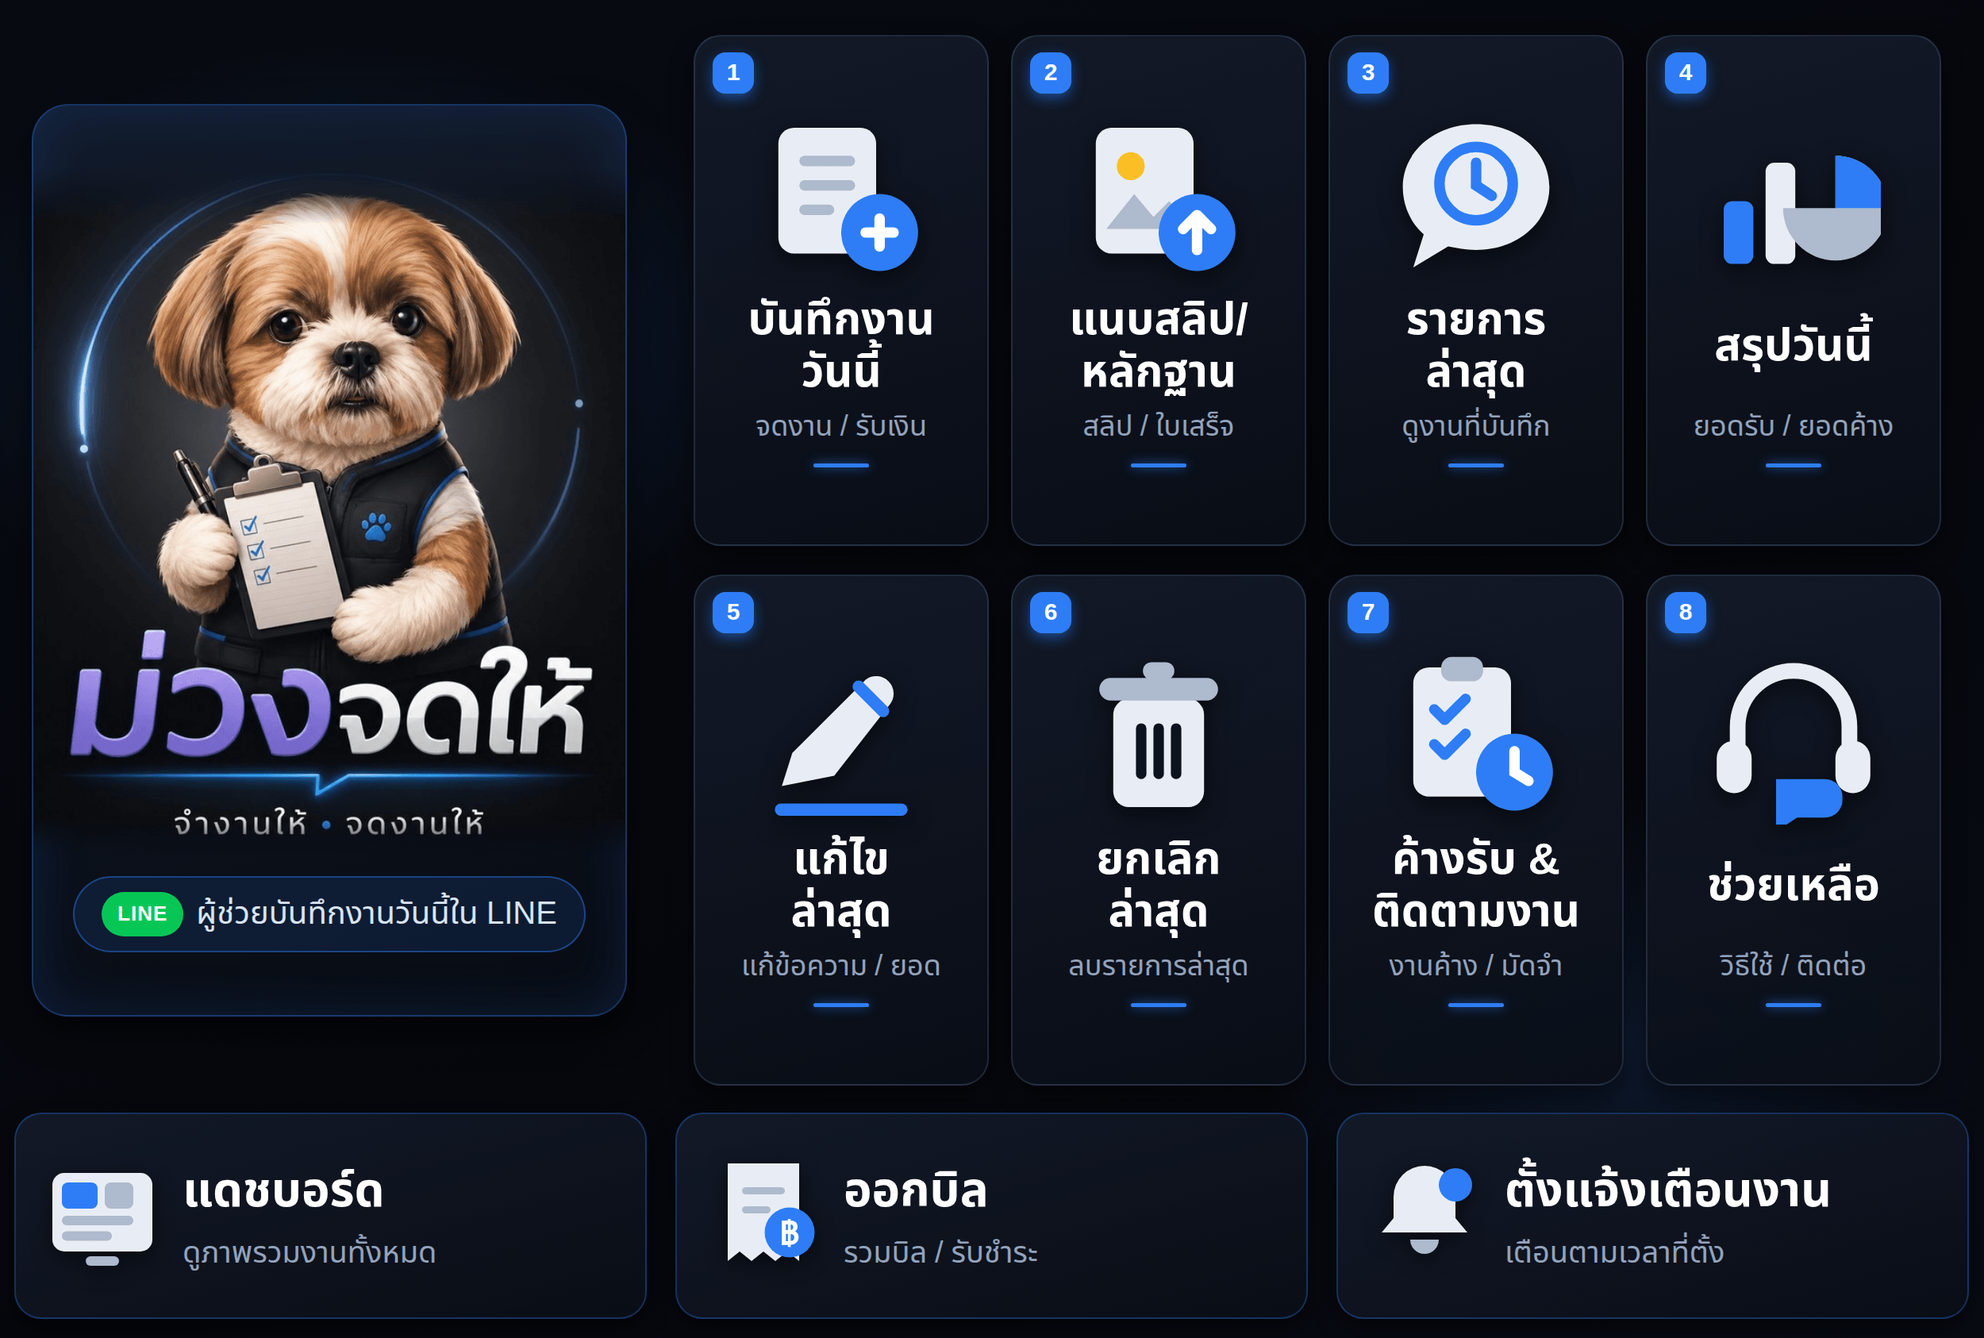
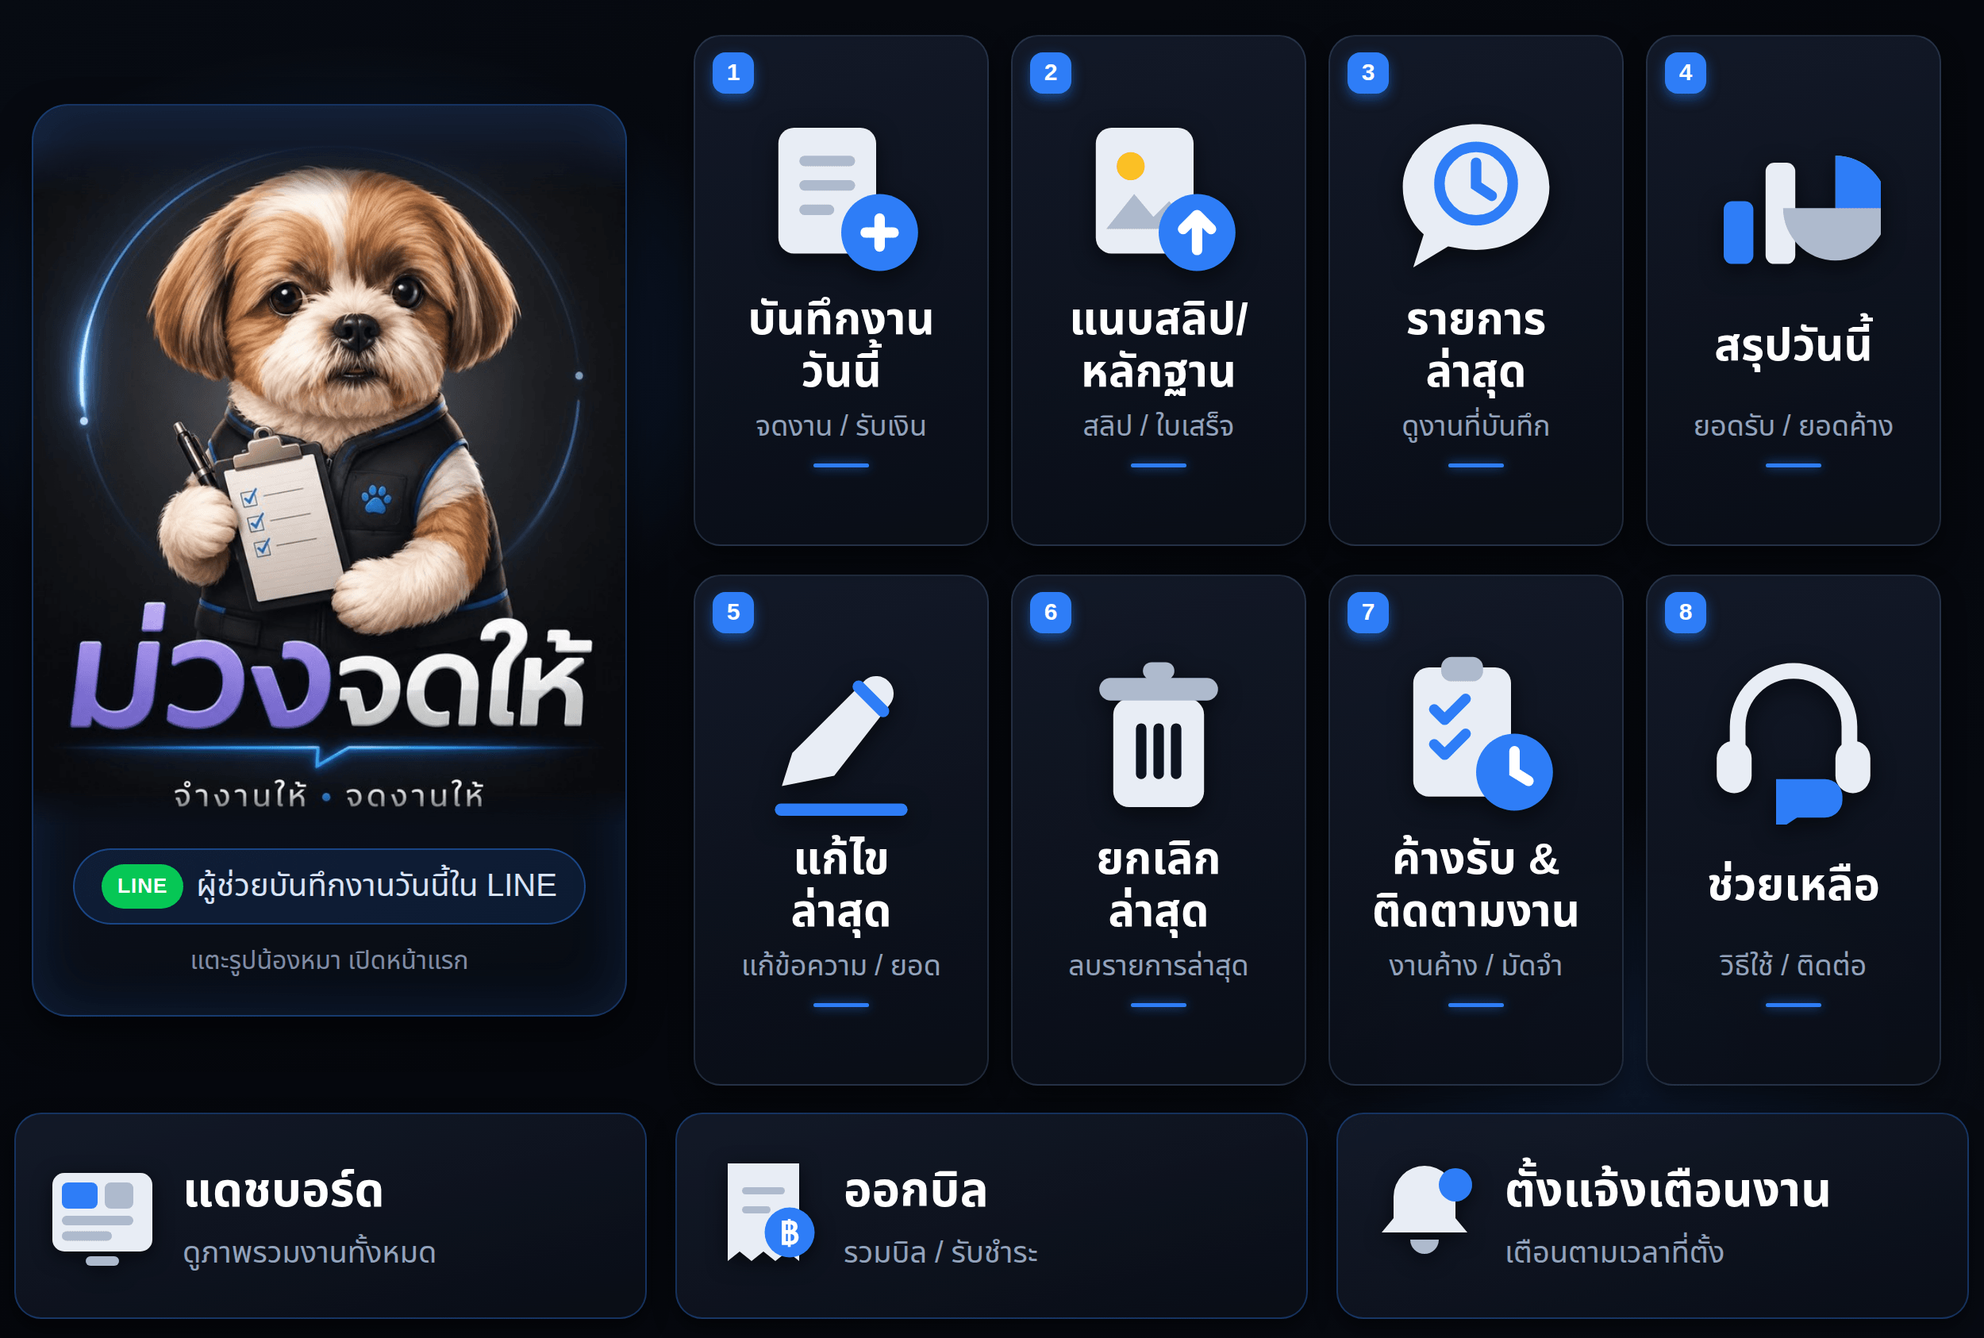
Make the mascot panel a button, opening a home card (#38)
It is the largest thing on the Rich Menu and the first thing anyone
presses, and it did nothing — 860 x 1386 of dead pixels down the left.
It now opens a home card: a greeting by name, the day in three numbers,
and the four things people open the bot to do. Deliberately shorter than
the summary card, which goes on to break the day down by category.

Nothing about a picture says it can be pressed, so the panel says so
under the badge.

The numbers are a nicety and the buttons are the point, so a failed
lookup still sends the card with zeroes rather than an error. The
dashboard button and the mascot strip each appear only when they resolve
to something.

Claude-Session: https://claude.ai/code/session_01HjQRr7qyQeJARpB6Ss4x4u

Changed region(s): [[0.0312, 0.1234, 0.312, 0.7402], [0.2808, 0.3084, 0.312, 0.3701]]

diff --git a/src/flex/homeFlex.js b/src/flex/homeFlex.js
@@ -1,0 +1,98 @@
+import { formatBaht } from '../utils/currency.js';
+import { formatThaiDate } from '../utils/dates.js';
+import { COLORS } from './theme.js';
+import { brandAssetUrl } from '../utils/brand.js';
+import { liffUrl } from '../utils/liff.js';
+
+// The card behind the mascot on the Rich Menu: a greeting, the day in three
+// numbers, and the four things people actually open the bot to do. It is the
+// "front page" — deliberately shorter than the summary card, which goes on to
+// break the day down by category.
+
+function stat(label, value, color) {
+  return {
+    type: 'box',
+    layout: 'vertical',
+    flex: 1,
+    spacing: 'xs',
+    contents: [
+      { type: 'text', text: label, size: 'sm', color: COLORS.grey },
+      { type: 'text', text: value, size: 'lg', weight: 'bold', color, wrap: true },
+    ],
+  };
+}
+
+function button(label, data, opts = {}) {
+  return {
+    type: 'button',
+    style: opts.primary ? 'primary' : 'secondary',
+    height: 'md',
+    ...(opts.primary ? { color: COLORS.accent } : {}),
+    action: { type: 'postback', label, data, displayText: opts.displayText || label },
+  };
+}
+
+export function homeFlex(summary = {}, opts = {}) {
+  const name = String(opts.displayName || '').trim();
+  const dashUrl = opts.liffUrl !== undefined ? opts.liffUrl : liffUrl({ tab: 'today' });
+  const hero = opts.heroImageUrl !== undefined ? opts.heroImageUrl : brandAssetUrl('ui/card-hero.png');
+
+  const body = [
+    {
+      type: 'text',
+      text: name ? `สวัสดีค่ะ คุณ${name} 💜` : 'ม่วงจดพร้อมช่วยแล้วค่ะ 💜',
+      weight: 'bold',
+      size: 'xl',
+      color: COLORS.title,
+      wrap: true,
+    },
+    { type: 'text', text: formatThaiDate(summary.date), size: 'md', color: COLORS.grey },
+    {
+      type: 'box',
+      layout: 'horizontal',
+      backgroundColor: COLORS.tint,
+      cornerRadius: 'lg',
+      paddingAll: 'lg',
+      spacing: 'md',
+      margin: 'lg',
+      contents: [
+        stat('ยอดวันนี้', formatBaht(summary.total || 0), COLORS.accent),
+        stat('งาน', `${summary.jobCount || 0}`, COLORS.ink),
+        stat('ค้างรับ', formatBaht(summary.pending || 0), COLORS.red),
+      ],
+    },
+  ];
+
+  const footer = [
+    button('📝 บันทึกงานวันนี้', 'action=add_job', { primary: true }),
+    {
+      type: 'box',
+      layout: 'horizontal',
+      spacing: 'sm',
+      contents: [
+        button('📊 สรุปวันนี้', 'action=today_summary'),
+        button('💰 ค้างรับ', 'action=pending_payment'),
+      ],
+    },
+  ];
+
+  // The dashboard button only exists when there is somewhere for it to go.
+  if (dashUrl) {
+    footer.push({
+      type: 'button',
+      style: 'secondary',
+      height: 'md',
+      action: { type: 'uri', label: '📋 เปิดแดชบอร์ด', uri: dashUrl },
+    });
+  }
+
+  const bubble = {
+    type: 'bubble',
+    size: 'mega',
+    body: { type: 'box', layout: 'vertical', paddingAll: 'lg', contents: body },
+    footer: { type: 'box', layout: 'vertical', spacing: 'sm', paddingAll: 'lg', paddingTop: 'none', contents: footer },
+  };
+  if (hero) bubble.hero = { type: 'image', url: hero, size: 'full', aspectRatio: '20:8', aspectMode: 'cover' };
+
+  return { type: 'flex', altText: 'ม่วงจดพร้อมช่วยแล้วค่ะ', contents: bubble };
+}

diff --git a/tests/richMenu.test.js b/tests/richMenu.test.js
@@ -3,7 +3,7 @@ import assert from 'node:assert/strict';
 import { readFileSync } from 'node:fs';
 import { resolveMenuCommand } from '../src/utils/menuCommands.js';
 import { POSTBACK_ACTIONS } from '../src/utils/validation.js';
-import { buildAreas, LAYOUT, BUTTONS, STRIP } from '../scripts/create-rich-menu.js';
+import { buildAreas, LAYOUT, BUTTONS, STRIP, PANEL } from '../scripts/create-rich-menu.js';
 
 // The Rich Menu is artwork plus a list of tappable rectangles, kept in step by
 // hand. These guard the ways that pairing silently breaks.
@@ -12,8 +12,8 @@ const builder = readFileSync(new URL('../scripts/build-rich-menu.mjs', import.me
 const nOf = (key) => Number(new RegExp(`${key} = (\\d+)`).exec(builder)?.[1]);
 
 test('every button reaches a handler, by tap and by text', () => {
-  const all = [...BUTTONS, ...STRIP];
-  assert.equal(all.length, LAYOUT.cols * LAYOUT.rows + LAYOUT.stripCols);
+  const all = [...BUTTONS, ...STRIP, PANEL];
+  assert.equal(all.length, LAYOUT.cols * LAYOUT.rows + LAYOUT.stripCols + 1);
 
   for (const btn of all) {
     const action = /action=([a-z_]+)/.exec(btn.data)?.[1];
@@ -39,7 +39,7 @@ test('the artwork and the tap areas describe the same geometry', () => {
 
 test('the areas stay inside the image, never overlap, and are big enough to tap', () => {
   const areas = buildAreas();
-  assert.equal(areas.length, BUTTONS.length + STRIP.length);
+  assert.equal(areas.length, BUTTONS.length + STRIP.length + 1);
 
   for (const { bounds, action } of areas) {
     assert.ok(bounds.width >= 200 && bounds.height >= 200, `${action.displayText}: ${bounds.width}x${bounds.height} too small`);
@@ -63,7 +63,7 @@ test('the areas stay inside the image, never overlap, and are big enough to tap'
 test('the grid clears the brand panel and the strip reaches both edges', () => {
   const areas = buildAreas();
   const grid = areas.slice(0, BUTTONS.length);
-  const strip = areas.slice(BUTTONS.length);
+  const strip = areas.slice(BUTTONS.length, BUTTONS.length + STRIP.length);
 
   for (const a of grid) {
     assert.ok(a.bounds.x >= LAYOUT.marginLeft, `${a.action.displayText} sits on the brand panel`);
@@ -74,4 +74,18 @@ test('the grid clears the brand panel and the strip reaches both edges', () => {
   const last = strip[strip.length - 1].bounds;
   assert.equal(last.x + last.width, LAYOUT.width, 'the strip leaves a gap at the right edge');
   assert.ok(strip.every((a) => a.bounds.y === LAYOUT.height - LAYOUT.stripHeight));
+});
+
+test('the mascot panel is tappable and covers everything left of the grid', () => {
+  const panel = buildAreas().at(-1);
+  assert.equal(panel.action.data, PANEL.data);
+  assert.deepEqual(panel.bounds, {
+    x: 0,
+    y: 0,
+    width: LAYOUT.marginLeft,
+    height: LAYOUT.height - LAYOUT.stripHeight,
+  });
+  // It is the biggest target on the menu, so a gap here would be the most
+  // annoying kind: a press that lands on nothing.
+  assert.ok(panel.bounds.width * panel.bounds.height > 1_000_000);
 });

diff --git a/scripts/create-rich-menu.js b/scripts/create-rich-menu.js
@@ -9,7 +9,7 @@ const { MessagingApiClient, MessagingApiBlobClient } = linebot.messagingApi;
 // ------------------------------------------------------------
 // Rich Menu layout config — must match assets/rich-menu.png, which is drawn
 // by scripts/build-rich-menu.mjs. The image is 2500 x 1686:
-//   - a brand panel down the left (decoration, not tappable)
+//   - a brand panel down the left — tappable, opens the home card
 //   - 8 cards in 4 columns x 2 rows to its right
 //   - a strip of 3 cards across the bottom, full width
 // ------------------------------------------------------------
@@ -18,7 +18,7 @@ const LAYOUT = {
   height: 1686,
   cols: 4,
   rows: 2,
-  marginLeft: 860, // brand panel to the left of the grid (not tappable)
+  marginLeft: 860, // brand panel to the left of the grid — tappable, see PANEL
   marginRight: 40, // margin after the last column, matching the panel's on the left
   marginTop: 26, // margin above the first row
   stripHeight: 300, // bottom strip — tappable, see STRIP below
@@ -37,6 +37,11 @@ const BUTTONS = [
   { label: 'ค้างรับ & ติดตามงาน', data: 'action=pending_payment' },
   { label: 'ช่วยเหลือ', data: 'action=help' },
 ];
+
+// The mascot panel down the left. It looked like decoration, so it was not
+// tappable — but it is the biggest thing on the menu and the first thing
+// anyone presses.
+const PANEL = { label: 'ม่วงจด', data: 'action=home' };
 
 // The bottom strip, left-to-right.
 const STRIP = [
@@ -57,7 +62,8 @@ function area(btn, bounds) {
   };
 }
 
-// Compute the 11 tappable areas from LAYOUT: the grid, then the bottom strip.
+// Compute the 12 tappable areas from LAYOUT: the grid, the bottom strip, then
+// the brand panel.
 export function buildAreas() {
   const gridWidth = LAYOUT.width - LAYOUT.marginLeft - LAYOUT.marginRight;
   const gridHeight = LAYOUT.height - LAYOUT.marginTop - LAYOUT.stripHeight;
@@ -81,10 +87,13 @@ export function buildAreas() {
     areas.push(area(btn, { x: stripW * i, y: stripY, width, height: LAYOUT.stripHeight }));
   });
 
+  // Everything left of the grid and above the strip.
+  areas.push(area(PANEL, { x: 0, y: 0, width: LAYOUT.marginLeft, height: stripY }));
+
   return areas;
 }
 
-export { LAYOUT, BUTTONS, STRIP };
+export { LAYOUT, BUTTONS, STRIP, PANEL };
 
 const CONTENT_TYPES = { '.jpg': 'image/jpeg', '.jpeg': 'image/jpeg', '.png': 'image/png' };
 

diff --git a/tests/homeFlex.test.js b/tests/homeFlex.test.js
@@ -1,0 +1,47 @@
+import { test } from 'node:test';
+import assert from 'node:assert/strict';
+import { homeFlex } from '../src/flex/homeFlex.js';
+import { COLORS } from '../src/flex/theme.js';
+
+const SUMMARY = { date: '2026-09-08', total: 2450, jobCount: 6, pending: 550 };
+
+test('the home card greets by name when there is one, and by the brand when there is not', () => {
+  const named = JSON.stringify(homeFlex(SUMMARY, { displayName: 'ฟิล์ม', heroImageUrl: null }));
+  assert.ok(named.includes('สวัสดีค่ะ คุณฟิล์ม'));
+
+  for (const missing of [undefined, null, '', '   ']) {
+    const anon = JSON.stringify(homeFlex(SUMMARY, { displayName: missing, heroImageUrl: null }));
+    assert.ok(anon.includes('ม่วงจดพร้อมช่วยแล้ว'), `${JSON.stringify(missing)}: no greeting`);
+    assert.ok(!anon.includes('คุณnull') && !anon.includes('คุณundefined'));
+  }
+});
+
+test('it shows the day in three numbers and the buttons someone came for', () => {
+  const json = JSON.stringify(homeFlex(SUMMARY, { heroImageUrl: null, liffUrl: null }));
+  assert.ok(json.includes('฿2,450'), 'the day total');
+  assert.ok(json.includes('"6"'), 'the job count');
+  assert.ok(json.includes('฿550'), 'what is still owed');
+
+  for (const action of ['action=add_job', 'action=today_summary', 'action=pending_payment']) {
+    assert.ok(json.includes(action), `${action} is missing`);
+  }
+});
+
+test('the dashboard button and the mascot strip appear only when they resolve', () => {
+  const without = homeFlex(SUMMARY, { heroImageUrl: null, liffUrl: null });
+  assert.equal(without.contents.hero, undefined, 'no strip, no hero');
+  assert.ok(!JSON.stringify(without).includes('เปิดแดชบอร์ด'), 'no LIFF, no dashboard button');
+
+  const with_ = homeFlex(SUMMARY, {
+    heroImageUrl: 'https://bot.example.com/brand/ui/card-hero.png',
+    liffUrl: 'https://liff.line.me/1234567890-AbCdEfGh?tab=today',
+  });
+  assert.equal(with_.contents.hero.url, 'https://bot.example.com/brand/ui/card-hero.png');
+  assert.ok(JSON.stringify(with_).includes('liff.line.me'));
+});
+
+test('an empty day still renders, since a new user taps the mascot first', () => {
+  const json = JSON.stringify(homeFlex({}, { heroImageUrl: null, liffUrl: null }));
+  assert.ok(json.includes('฿0'));
+  assert.ok(json.includes(COLORS.accent));
+});

diff --git a/src/actions/home.js b/src/actions/home.js
@@ -1,0 +1,19 @@
+import { reply } from '../services/lineService.js';
+import { getDashboard } from '../services/dashboardService.js';
+import { homeFlex } from '../flex/homeFlex.js';
+import { logger } from '../services/logger.js';
+
+// postback action=home — the mascot panel on the Rich Menu.
+//
+// The numbers are a nicety, not the point: someone who tapped the dog wants
+// the buttons. So a failed lookup still sends the card, with zeroes.
+export async function home({ replyToken, profile }) {
+  let summary = { date: new Date(), total: 0, jobCount: 0, pending: 0 };
+  try {
+    const dash = await getDashboard(profile.id, { recentLimit: 0 });
+    summary = dash.summary;
+  } catch (err) {
+    logger.warn('home.summary_failed', { message: err?.message });
+  }
+  return reply(replyToken, homeFlex(summary, { displayName: profile.display_name }));
+}

diff --git a/src/handlers/postbackHandler.js b/src/handlers/postbackHandler.js
@@ -10,6 +10,7 @@ import { pickCategory } from '../actions/pickCategory.js';
 import { createBillAction, billPaymentPrompt, viewReceipt } from '../actions/bill.js';
 import { remindPrompt, setReminder, cancelReminderAction, listReminders } from '../actions/reminder.js';
 import { openDashboard } from '../actions/dashboard.js';
+import { home } from '../actions/home.js';
 import { pendingPayment } from '../actions/pendingPayment.js';
 import { recordPaymentPrompt } from '../actions/recordPayment.js';
 import { searchJobsPrompt } from '../actions/searchJobs.js';
@@ -63,6 +64,8 @@ export async function handlePostback(event, profile) {
       return billPaymentPrompt(ctx);
     case 'view_receipt':
       return viewReceipt(ctx);
+    case 'home':
+      return home(ctx);
     case 'open_dashboard':
       return openDashboard(ctx);
     case 'remind_job':

diff --git a/tests/theme.test.js b/tests/theme.test.js
@@ -11,6 +11,7 @@ import { paymentConfirmationFlex } from '../src/flex/paymentFlex.js';
 import { reportMenuFlex } from '../src/flex/reportFlex.js';
 import { recentJobsFlex } from '../src/flex/recentJobsFlex.js';
 import { jobCardMessage, jobPreviewMessage } from '../src/flex/jobCard.js';
+import { homeFlex } from '../src/flex/homeFlex.js';
 
 // A card that keeps Flex's white default is unreadable in this palette, so the
 // surface being stamped on every bubble is the thing that must not regress.
@@ -104,6 +105,7 @@ test('every card the bot sends comes out on the dark surface', () => {
     recentEmpty: recentJobsFlex([]),
     jobCard: jobCardMessage(JOB),
     jobPreview: jobPreviewMessage(JOB),
+    home: homeFlex({ date: '2026-09-08', total: 150, jobCount: 1, pending: 150 }),
   };
 
   for (const [name, message] of Object.entries(cards)) {

diff --git a/src/utils/menuCommands.js b/src/utils/menuCommands.js
@@ -6,6 +6,10 @@
 // Matching is exact (after trimming) so ordinary job text is never hijacked.
 
 const COMMANDS = new Map([
+  // the mascot panel on the Rich Menu
+  ['ม่วงจด', 'home'],
+  ['หน้าแรก', 'home'],
+  ['เริ่มใช้งาน', 'home'],
   // 8 core menu buttons
   ['บันทึกงานวันนี้', 'add_job'],
   ['บันทึกงาน', 'add_job'],

diff --git a/src/utils/validation.js b/src/utils/validation.js
@@ -5,6 +5,7 @@ export const JOB_STATUSES = ['active', 'completed', 'cancelled'];
 
 // Known postback actions. Kept in sync with postbackHandler's router.
 export const POSTBACK_ACTIONS = [
+  'home',
   'add_job',
   'confirm_add_job',
   'edit_new_job',

diff --git a/assets/README.md b/assets/README.md
@@ -1,17 +1,17 @@
 # รูป Rich Menu
 
-`rich-menu.png` — 2500 × 1686 px, 11 ปุ่ม โทนดำ-น้ำเงินตามแบรนด์
+`rich-menu.png` — 2500 × 1686 px, 12 ปุ่ม โทนดำ-น้ำเงินตามแบรนด์
 ขนาดไฟล์ ~563 KB (LINE จำกัด 1 MB)
 
 ## โครงของรูป (ต้องตรงกับ `scripts/create-rich-menu.js`)
 
 | ส่วน | พิกัด | กดได้ไหม |
 |---|---|---|
-| การ์ดแบรนด์ (น้องหมา + โลโก้) | x 0 – 860, y 0 – 1386 | ไม่ |
+| การ์ดแบรนด์ (น้องหมา + โลโก้) | x 0 – 860, y 0 – 1386 | ✅ เปิดหน้าแรก |
 | การ์ด 8 ปุ่ม (4 คอลัมน์ × 2 แถว ช่องละ 400 × 680) | x 860 – 2460, y 26 – 1386 | ✅ |
 | แถบล่าง 3 การ์ด (ช่องละ ~833 × 300) | x 0 – 2500, y 1386 – 1686 | ✅ |
 
-## ปุ่มทั้ง 11 (เรียงซ้าย→ขวา บน→ล่าง)
+## ปุ่มทั้ง 12 (เรียงซ้าย→ขวา บน→ล่าง)
 
 | # | ปุ่ม | ข้อความที่ต้องส่ง |
 |---|---|---|
@@ -26,6 +26,7 @@
 | 9 | แดชบอร์ด (แถบล่าง) | `แดชบอร์ด` |
 | 10 | ออกบิล (แถบล่าง) | `ออกบิล` |
 | 11 | ตั้งแจ้งเตือนงาน (แถบล่าง) | `ตั้งแจ้งเตือนงาน` |
+| 12 | รูปน้องหมา (การ์ดแบรนด์) | `ม่วงจด` |
 
 ทุกข้อความอยู่ใน `src/utils/menuCommands.js` แล้ว และมีเทสต์คุมไว้
 (`tests/richMenu.test.js`) ว่าทุกป้ายบนการ์ดต้องมีคำสั่งรองรับ และพิกัดปุ่ม
